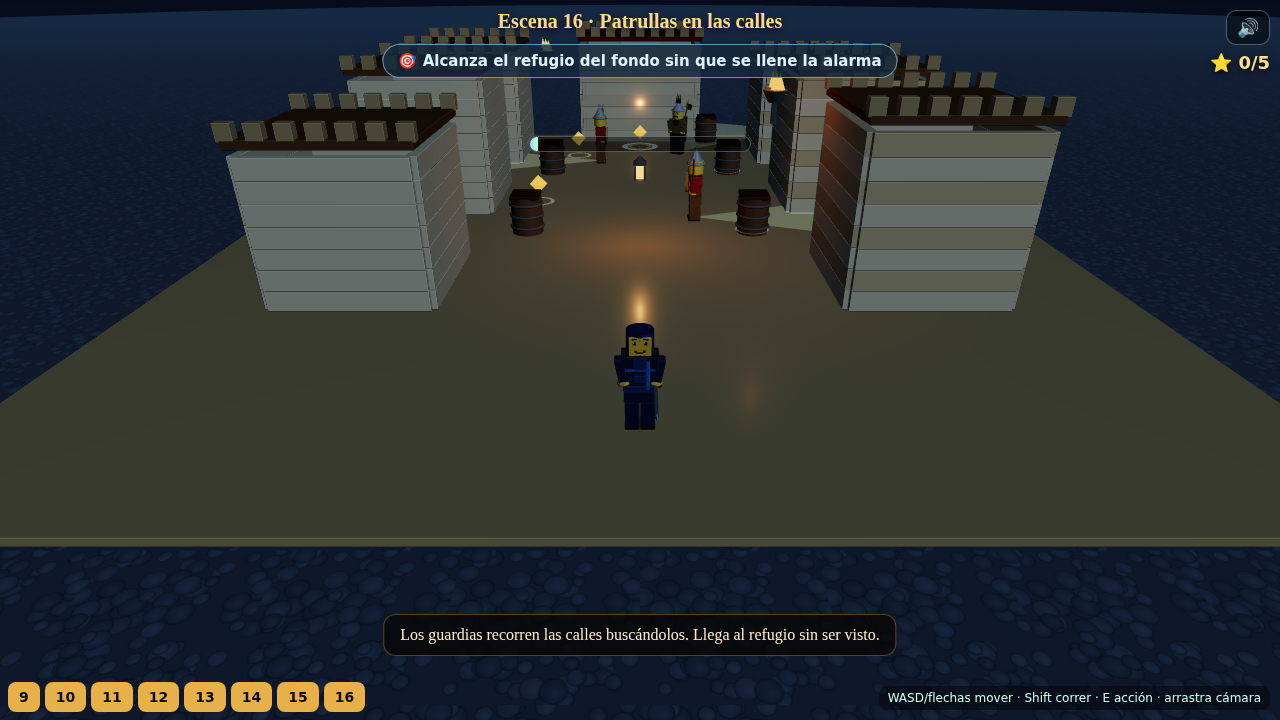
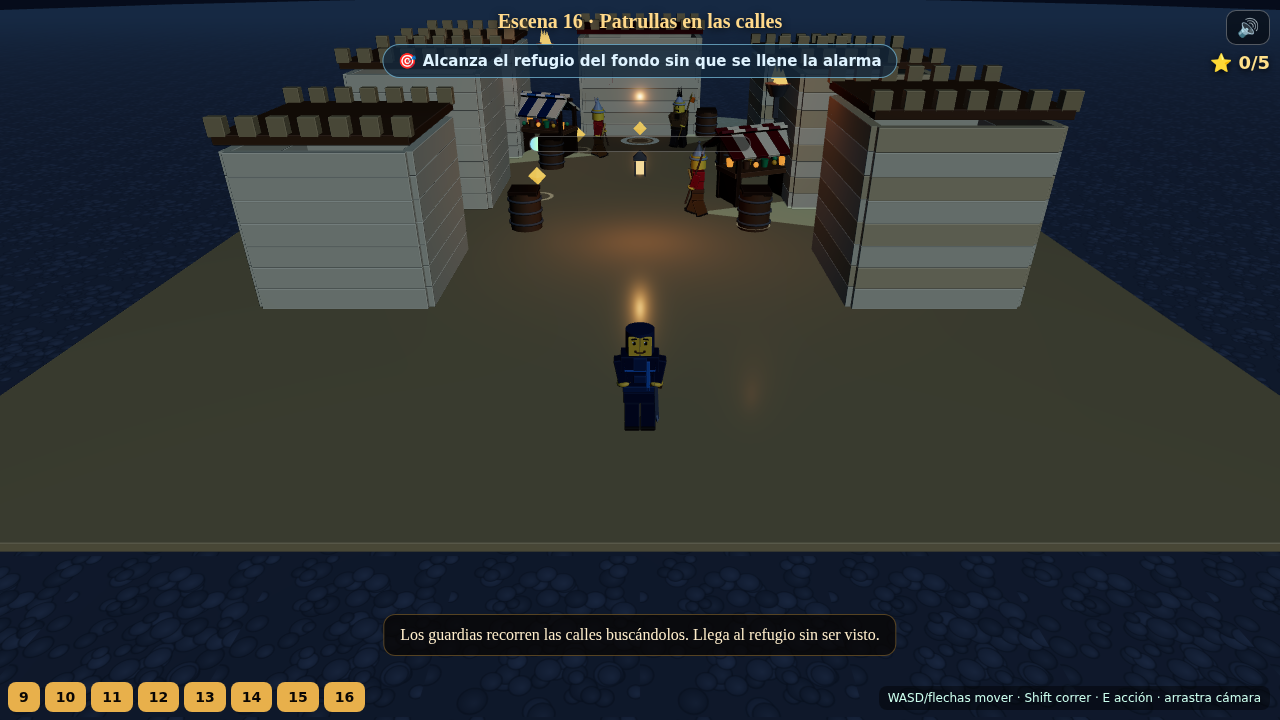
min05: cámara cinemática portátil + detalle de zoco nocturno
- Extrae el recurso "el audio manda sobre el juego" a un helper reutilizable
  props/CinematicCamera.ts (focus/reveal), portable al orquestador del juego
  completo para que el gag del avión y los planos de revelado no se pierdan.
- preview.ts refactorizado para usar el helper.
- buildMarketStall en props/BrickProps: puestos de zoco (postes, toldo a rayas,
  mostrador, tinajas y fruta) que dan vida y hacen de cobertura en el sigilo.
- Coloca dos puestos con colisión en la escena 16 (patrullas nocturnas).
- Nota de coordinación para el integrador con la API del helper y los beats.

Claude-Session: https://claude.ai/code/session_01CGC23cVs8LDrE5f5T9bipT

diff --git a/mundo-ladrillos/src/scenes/min05/preview/preview.ts b/mundo-ladrillos/src/scenes/min05/preview/preview.ts
@@ -9,6 +9,7 @@ import { MIN05_SCENES, BEAT_LOCAL } from '../registry';
 import { Min05Scene, SceneInstance, SceneContext } from '../types';
 import { SoundEngine } from '../audio/SoundEngine';
 import { buildNightSky, cobbleTexture } from '../props/NightAmbience';
+import { CinematicCamera } from '../props/CinematicCamera';
 import { YEHOSHUA_SKIN, ESPIA1_SIGILO, ESPIA2_SIGILO, ESPIA1_CAMP, ESPIA2_CAMP } from '../skins';
 
 /**
@@ -238,29 +239,16 @@ let currentDef: Min05Scene | null = null;
 let done = false;
 let advanceT = 0;
 
-// --- cinemática de cámara: "a veces el audio manda" (seguir objeto o revelar) ---
-let cineT = 0;
-let cineDur = 0;
-let cineMode: 'follow' | 'reveal' | null = null;
-let cineTarget: THREE.Object3D | null = null;
-const cvFrom = new THREE.Vector3(), cvTo = new THREE.Vector3();
-const clFrom = new THREE.Vector3(), clTo = new THREE.Vector3();
-const cineTmp = new THREE.Vector3(), cineLook = new THREE.Vector3();
+// --- cinemática de cámara: "a veces el audio manda" (helper reutilizable) ---
+const cineCam = new CinematicCamera(camera);
 let started = false;                          // ¿pulsó ya "empezar"?
 let pendingIntro: Min05Scene['intro'] | null = null;
 const shotMode = new URLSearchParams(location.search).get('shot') === '1';
 
-type XYZ = { x: number; y: number; z: number };
-function doReveal(from: XYZ, to: XYZ, lookFrom: XYZ, lookTo: XYZ, seconds: number): void {
-  cineMode = 'reveal'; cineT = seconds; cineDur = seconds;
-  cvFrom.set(from.x, from.y, from.z); cvTo.set(to.x, to.y, to.z);
-  clFrom.set(lookFrom.x, lookFrom.y, lookFrom.z); clTo.set(lookTo.x, lookTo.y, lookTo.z);
-  camera.position.copy(cvFrom);
-}
 function fireIntro(): void {
   if (!pendingIntro) return;
   const i = pendingIntro; pendingIntro = null;
-  doReveal(i.from, i.to, i.lookFrom, i.lookTo, i.seconds);
+  cineCam.reveal(i.from, i.to, i.lookFrom, i.lookTo, i.seconds);
 }
 
 function disposeGroup(g: THREE.Group): void {
@@ -290,8 +278,8 @@ function loadScene(i: number): void {
     wantsInteract: consumeInteract,
     addObstacle: (x, z, hw, hd) => controller.addObstacle(x, z, hw, hd),
     setPlayerSkin: (which) => setPlayerSkin(which),
-    cameraFocus: (target, seconds) => { cineMode = 'follow'; cineTarget = target; cineT = seconds; cineDur = seconds; },
-    cameraReveal: (from, to, lookFrom, lookTo, seconds) => doReveal(from, to, lookFrom, lookTo, seconds)
+    cameraFocus: (target, seconds) => cineCam.focus(target, seconds),
+    cameraReveal: (from, to, lookFrom, lookTo, seconds) => cineCam.reveal(from, to, lookFrom, lookTo, seconds)
   };
   current = def.build(ctx);
 
@@ -357,7 +345,7 @@ function animate(now: number): void {
   const dt = Math.min(0.05, (now - last) / 1000 || 0.016);
   last = now;
 
-  const cine = cineT > 0 && cineMode !== null;
+  const cine = cineCam.active;
   // durante la cinemática el jugador NO se mueve (solo mira); si no, control normal
   if (!cine) {
     controller.update(dt, tpcam.yaw);
@@ -403,26 +391,8 @@ function animate(now: number): void {
     }
   }
 
-  // ---- Cámara ----
-  if (cine) {
-    cineT -= dt;
-    if (cineMode === 'follow' && cineTarget) {
-      // cámara baja y por detrás, mirando ARRIBA al objeto (lo sigue al cruzar)
-      const tp = cineTarget.position;
-      cineTmp.set(controller.pos.x * 0.4 + tp.x * 0.12, 3.5, controller.pos.z - 20);
-      camera.position.lerp(cineTmp, 0.09);
-      camera.lookAt(tp.x, tp.y, tp.z);
-    } else if (cineMode === 'reveal') {
-      const k = THREE.MathUtils.clamp(1 - Math.max(0, cineT) / cineDur, 0, 1);
-      const e = k * k * (3 - 2 * k); // smoothstep
-      camera.position.lerpVectors(cvFrom, cvTo, e);
-      cineLook.lerpVectors(clFrom, clTo, e);
-      camera.lookAt(cineLook);
-    }
-    if (cineT <= 0) { cineMode = null; cineTarget = null; } // fin → control manual
-  } else {
-    tpcam.update(controller.pos);
-  }
+  // ---- Cámara ---- (si hay cinemática la controla el helper; si no, la normal)
+  if (!cineCam.update(dt, controller.pos.x, controller.pos.z)) tpcam.update(controller.pos);
   renderer.render(scene, camera);
 }
 function setBar(b: { wrap: HTMLDivElement; fill: HTMLDivElement; lab: HTMLDivElement }, v?: number): void {
@@ -436,4 +406,4 @@ requestAnimationFrame(animate);
 // hooks de depuración/captura
 (window as any).__setPlayer = (x: number, z: number) => controller.teleport(x, z);
 (window as any).__pos = () => ({ x: controller.pos.x, z: controller.pos.z });
-(window as any).__cine = () => cineT;
+(window as any).__cine = () => (cineCam.active ? 1 : 0);

diff --git a/mundo-ladrillos/src/scenes/min05/props/CinematicCamera.ts b/mundo-ladrillos/src/scenes/min05/props/CinematicCamera.ts
@@ -1,0 +1,78 @@
+import * as THREE from 'three';
+
+/**
+ * CÁMARA CINEMÁTICA reutilizable — "a veces el audio manda sobre el juego".
+ * Toma el control de la cámara unos segundos (seguir un objeto o un travelling
+ * de revelado) y luego lo devuelve. Portable: sirve tanto para el preview del
+ * tramo 5–10 como para el ORQUESTADOR del juego completo.
+ *
+ * Uso (en tu bucle):
+ *   const cineCam = new CinematicCamera(camera);
+ *   // engancha al contexto de escena:
+ *   ctx.cameraFocus  = (t, s)      => cineCam.focus(t, s);
+ *   ctx.cameraReveal = (f,t,lf,lt,s)=> cineCam.reveal(f, t, lf, lt, s);
+ *   // cada frame:
+ *   const cine = cineCam.active;
+ *   if (!cine) miControladorDeJugador.update(dt);     // congela input en cine
+ *   escena.update(dt);                                // la escena SIEMPRE avanza
+ *   if (!cineCam.update(dt, jugador.x, jugador.z)) miCamaraNormal.update(jugador);
+ */
+type XYZ = { x: number; y: number; z: number };
+
+export class CinematicCamera {
+  private t = 0;
+  private dur = 0;
+  private mode: 'follow' | 'reveal' | null = null;
+  private target: THREE.Object3D | null = null;
+  private cvFrom = new THREE.Vector3();
+  private cvTo = new THREE.Vector3();
+  private clFrom = new THREE.Vector3();
+  private clTo = new THREE.Vector3();
+  private tmp = new THREE.Vector3();
+  private look = new THREE.Vector3();
+
+  constructor(private camera: THREE.PerspectiveCamera) {}
+
+  /** ¿La cámara está en un momento cinemático ahora mismo? */
+  get active(): boolean { return this.t > 0 && this.mode !== null; }
+
+  /** Sigue a un objeto en movimiento (p. ej. el avión de la treta). */
+  focus(target: THREE.Object3D, seconds: number): void {
+    this.mode = 'follow'; this.target = target; this.t = seconds; this.dur = seconds;
+  }
+
+  /** Travelling de revelado: cámara de `from`→`to` mirando `lookFrom`→`lookTo`. */
+  reveal(from: XYZ, to: XYZ, lookFrom: XYZ, lookTo: XYZ, seconds: number): void {
+    this.mode = 'reveal'; this.t = seconds; this.dur = seconds;
+    this.cvFrom.set(from.x, from.y, from.z); this.cvTo.set(to.x, to.y, to.z);
+    this.clFrom.set(lookFrom.x, lookFrom.y, lookFrom.z); this.clTo.set(lookTo.x, lookTo.y, lookTo.z);
+    this.camera.position.copy(this.cvFrom);
+  }
+
+  /** Corta la cinemática ya (devuelve el control). */
+  stop(): void { this.mode = null; this.target = null; this.t = 0; }
+
+  /**
+   * Actualiza la cámara si hay cinemática. `anchorX/anchorZ` = posición del
+   * jugador (para encuadrar el modo "follow"). Devuelve `true` si ha controlado
+   * la cámara este frame; `false` si no (entonces usa tu cámara normal).
+   */
+  update(dt: number, anchorX = 0, anchorZ = 0): boolean {
+    if (!this.active) return false;
+    this.t -= dt;
+    if (this.mode === 'follow' && this.target) {
+      const tp = this.target.position;
+      this.tmp.set(anchorX * 0.4 + tp.x * 0.12, 3.5, anchorZ - 20);
+      this.camera.position.lerp(this.tmp, 0.09);
+      this.camera.lookAt(tp.x, tp.y, tp.z);
+    } else if (this.mode === 'reveal') {
+      const k = THREE.MathUtils.clamp(1 - Math.max(0, this.t) / this.dur, 0, 1);
+      const e = k * k * (3 - 2 * k); // smoothstep
+      this.camera.position.lerpVectors(this.cvFrom, this.cvTo, e);
+      this.look.lerpVectors(this.clFrom, this.clTo, e);
+      this.camera.lookAt(this.look);
+    }
+    if (this.t <= 0) { this.mode = null; this.target = null; }
+    return true;
+  }
+}

diff --git a/mundo-ladrillos/src/scenes/min05/props/BrickProps.ts b/mundo-ladrillos/src/scenes/min05/props/BrickProps.ts
@@ -352,6 +352,42 @@ export function buildBarrel(plastic: PlasticMaterialFactory, color: number = Bri
   return g;
 }
 
+/**
+ * PUESTO DE MERCADO de ladrillo: cuatro postes, TOLDO a rayas, mostrador y
+ * género (vasijas, fruta, panes). Da vida y atmósfera de zoco a las calles.
+ */
+export function buildMarketStall(
+  plastic: PlasticMaterialFactory, awning: number = BrickPalette.DARK_RED
+): THREE.Group {
+  const g = new THREE.Group();
+  // postes
+  for (const sx of [-2.4, 2.4]) for (const sz of [-1.4, 1.4]) {
+    g.add(brickBox(plastic, 0.35, 4.4, 0.35, BrickPalette.DARK_BROWN, sx, 2.2, sz));
+  }
+  // mostrador
+  g.add(brickBox(plastic, 5.4, 0.4, 3, BrickPalette.BROWN, 0, 2.4, 0));
+  for (const sx of [-2.3, 2.3]) g.add(brickBox(plastic, 0.4, 2.2, 3, BrickPalette.DARK_BROWN, sx, 1.2, 0));
+  // toldo a dos aguas, a rayas (tela clara + color)
+  for (let i = 0; i < 6; i++) {
+    const col = i % 2 ? awning : BrickPalette.WARM_SAND;
+    for (const side of [-1, 1]) {
+      const panel = brickBox(plastic, 1.0, 0.25, 3.4, col, -2.5 + i + 0.5, 4.7, side * 0.9);
+      panel.rotation.x = side * 0.5; g.add(panel);
+    }
+  }
+  g.add(brickBox(plastic, 6, 0.3, 0.3, BrickPalette.DARK_BROWN, 0, 5.2, 0)); // caballete
+  // género sobre el mostrador
+  const goods = [0xdd7a1e, 0xb62b2b, 0x4c9e5e, 0xf0b429, 0x7a5433];
+  for (let i = 0; i < 6; i++) {
+    const gx = -2 + i * 0.8;
+    const pot = new THREE.Mesh(new THREE.CylinderGeometry(0.32, 0.24, 0.6, 10), plastic.get(goods[i % goods.length]));
+    pot.position.set(gx, 2.9, (i % 2 ? 0.6 : -0.5)); pot.castShadow = true; g.add(pot);
+    const fruit = new THREE.Mesh(new THREE.SphereGeometry(0.22, 8, 6), plastic.get(goods[(i + 2) % goods.length]));
+    fruit.position.set(gx, 2.85, (i % 2 ? -0.6 : 0.6)); g.add(fruit);
+  }
+  return g;
+}
+
 /** Casa/edificio urbano de ladrillo (para las calles de Jericó). */
 export function buildHouse(
   plastic: PlasticMaterialFactory, w = 8, h = 8, d = 8,

diff --git a/mundo-ladrillos/src/scenes/min05/escena16_guardias_calles.ts b/mundo-ladrillos/src/scenes/min05/escena16_guardias_calles.ts
@@ -1,7 +1,7 @@
 import * as THREE from 'three';
 import { Min05Scene, SceneContext, SceneInstance } from './types';
 import { BrickPalette } from '../../materials/BrickPalette';
-import { buildHouse, buildBarrel, studdedPlate, brickBox } from './props/BrickProps';
+import { buildHouse, buildBarrel, buildMarketStall, studdedPlate, brickBox } from './props/BrickProps';
 import { buildBrazier, buildLantern, buildBanner } from './props/NightAmbience';
 import { StealthSystem } from './mechanics/StealthSystem';
 import { VisionCone, Npc } from './props/Npc';
@@ -62,6 +62,9 @@ export const escena16: Min05Scene = {
 
     const barrelPos = [{ x: -8, z: 3 }, { x: 8, z: 3 }, { x: -8, z: 20 }, { x: 8, z: 20 }, { x: -7, z: 33 }];
     for (const b of barrelPos) { const br = buildBarrel(plastic); br.position.set(b.x, 0, b.z); group.add(br); }
+    // puestos de mercado (atmósfera de zoco nocturno + hacen de cobertura)
+    const stallPos: Array<[number, number, number]> = [[-9, 10, BrickPalette.DARK_RED], [9, 25, BrickPalette.DARK_BLUE]];
+    for (const [sx, sz, col] of stallPos) { const st = buildMarketStall(plastic, col); st.position.set(sx, 0, sz); st.rotation.y = sx < 0 ? 0.4 : -0.4; group.add(st); ctx.addObstacle(sx, sz, 2.6, 1.6); }
 
     const goal = new THREE.Mesh(new THREE.RingGeometry(1.4, 2, 24), new THREE.MeshBasicMaterial({ color: 0x8fe0ff, transparent: true, opacity: 0.75, side: THREE.DoubleSide }));
     goal.rotation.x = -Math.PI / 2; goal.position.set(0, 0.2, 30); group.add(goal);

diff --git a/mundo-ladrillos/coordinacion/min05-10.md b/mundo-ladrillos/coordinacion/min05-10.md
@@ -131,3 +131,30 @@ Ver bitácora completa del tramo: `coordinacion/min05-10-bitacora.md`.
 
 **Preguntas:** ninguna bloqueante. (Confirmado con el usuario: el look "ninja" de
 los espías es FIEL a la peli; se mantiene, solo en modo infiltrado desde la esc. 12.)
+
+## NUEVO — cámara cinemática PORTÁTIL (para el orquestador)
+Extraje el "a veces el audio manda sobre el juego" a un helper reutilizable:
+`src/scenes/min05/props/CinematicCamera.ts`. Es autónomo (solo Three.js) y sirve
+igual para mi preview que para tu ORQUESTADOR del juego completo — así el gag del
+avión y los planos de revelado NO se pierden al integrar.
+
+API mínima (engánchalo a tu bucle):
+```ts
+const cineCam = new CinematicCamera(camera);
+ctx.cameraFocus  = (t, s)        => cineCam.focus(t, s);          // seguir objeto (avión)
+ctx.cameraReveal = (f,t,lf,lt,s) => cineCam.reveal(f, t, lf, lt, s); // travelling revelado
+// cada frame:
+if (!cineCam.active) miControlador.update(dt);   // congela input mientras hay cine
+escena.update(dt);                                // la escena SIEMPRE avanza
+if (!cineCam.update(dt, jugador.x, jugador.z)) miCamaraNormal.update(jugador);
+```
+- Escenas con revelado de entrada (`Min05Scene.intro`): 9 (río→Jericó→Yehoshúa) y
+  11 (murallas). Dispáralo con `cameraReveal(intro.from, intro.to, intro.lookFrom,
+  intro.lookTo, intro.seconds)` al montar la escena.
+- Gag del avión (esc. 14): al pulsar la treta hago `cameraFocus(avión, 2.4)` + subo
+  el clip `m0510_14_avion`; la cámara enseña el avión sola y luego vuelve a manual.
+
+## Detalle (subiendo el listón como los demás)
+- Alfombras kilim (técnica del LEAD, `min00/textiles`) en tiendas 10 y 12.
+- Puestos de zoco nocturno en la esc. 16 (`buildMarketStall` en `props/BrickProps`):
+  hacen de cobertura para el sigilo y dan vida de calle. Con colisión.
